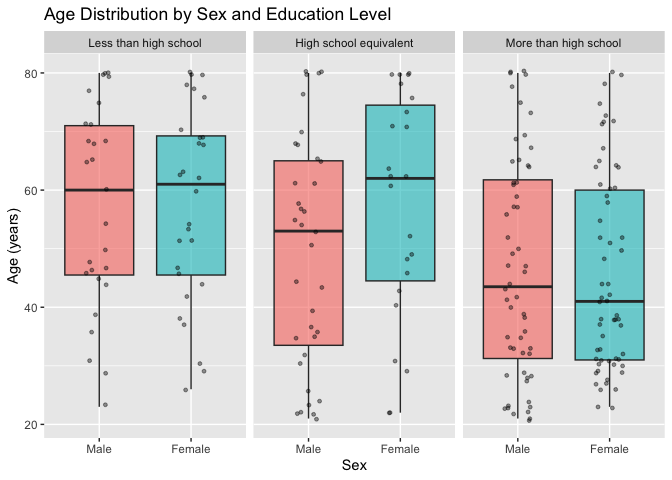
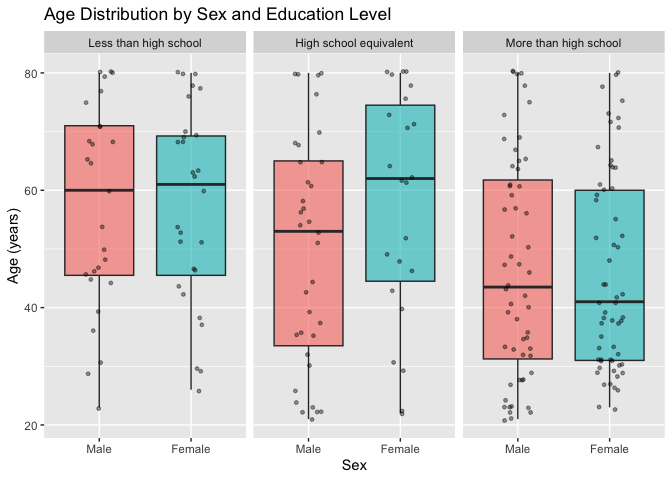
adjustment

diff --git a/p8105_hw3_yp2846.md b/p8105_hw3_yp2846.md
@@ -92,7 +92,12 @@ ny_noaa_clean |>
   facet_grid(~month,
              labeller = labeller(
                month = c("1" = "January", "7" = "July")
-  )) 
+  )) +
+  labs(
+    title = "Average Maximum Temperature by Year",
+    x = "Year",
+    y = "Average Maximum Temperature (°C)"
+  )
 ```
 
     ## Warning: Removed 5970 rows containing missing values or values outside the scale range
@@ -261,6 +266,18 @@ head(nhanes,5)
     ## #   min27 <dbl>, min28 <dbl>, min29 <dbl>, min30 <dbl>, min31 <dbl>,
     ## #   min32 <dbl>, min33 <dbl>, min34 <dbl>, min35 <dbl>, min36 <dbl>,
     ## #   min37 <dbl>, min38 <dbl>, min39 <dbl>, min40 <dbl>, min41 <dbl>, …
+
+``` r
+dim(nhanes)
+```
+
+    ## [1]  228 1445
+
+After excluding participants younger than 21 years and those with
+missing demographic information, the merged dataset contains 228
+participants. Each row represents one participant and includes
+demographic characteristics and minute-level accelerometer measurements
+across a 24-hour period.
 
 ``` r
 demo_table = nhanes |>
@@ -586,9 +603,12 @@ knitr::kable(
 | W 31 St & 7 Ave          |             146 |
 
 The table shows the five most frequently used starting stations in the
-July 2024 sample, ranked by the number of rides originating from each
-station. These stations represent the most popular departure locations
-among the sampled rides during this period.
+July 2024 sample. In July 2024, Pier 61 at Chelsea Piers was the most
+frequently used starting station in the sample, with 163 rides, followed
+by University Pl & E 14 St (155 rides) and W 21 St & 6 Ave (152 rides).
+The five most popular starting stations had relatively similar ride
+counts, ranging from 146 to 163. These results reflect sampled rides
+rather than all Citi Bike trips in New York City.
 
 ``` r
 duration_summary = citibike |>
